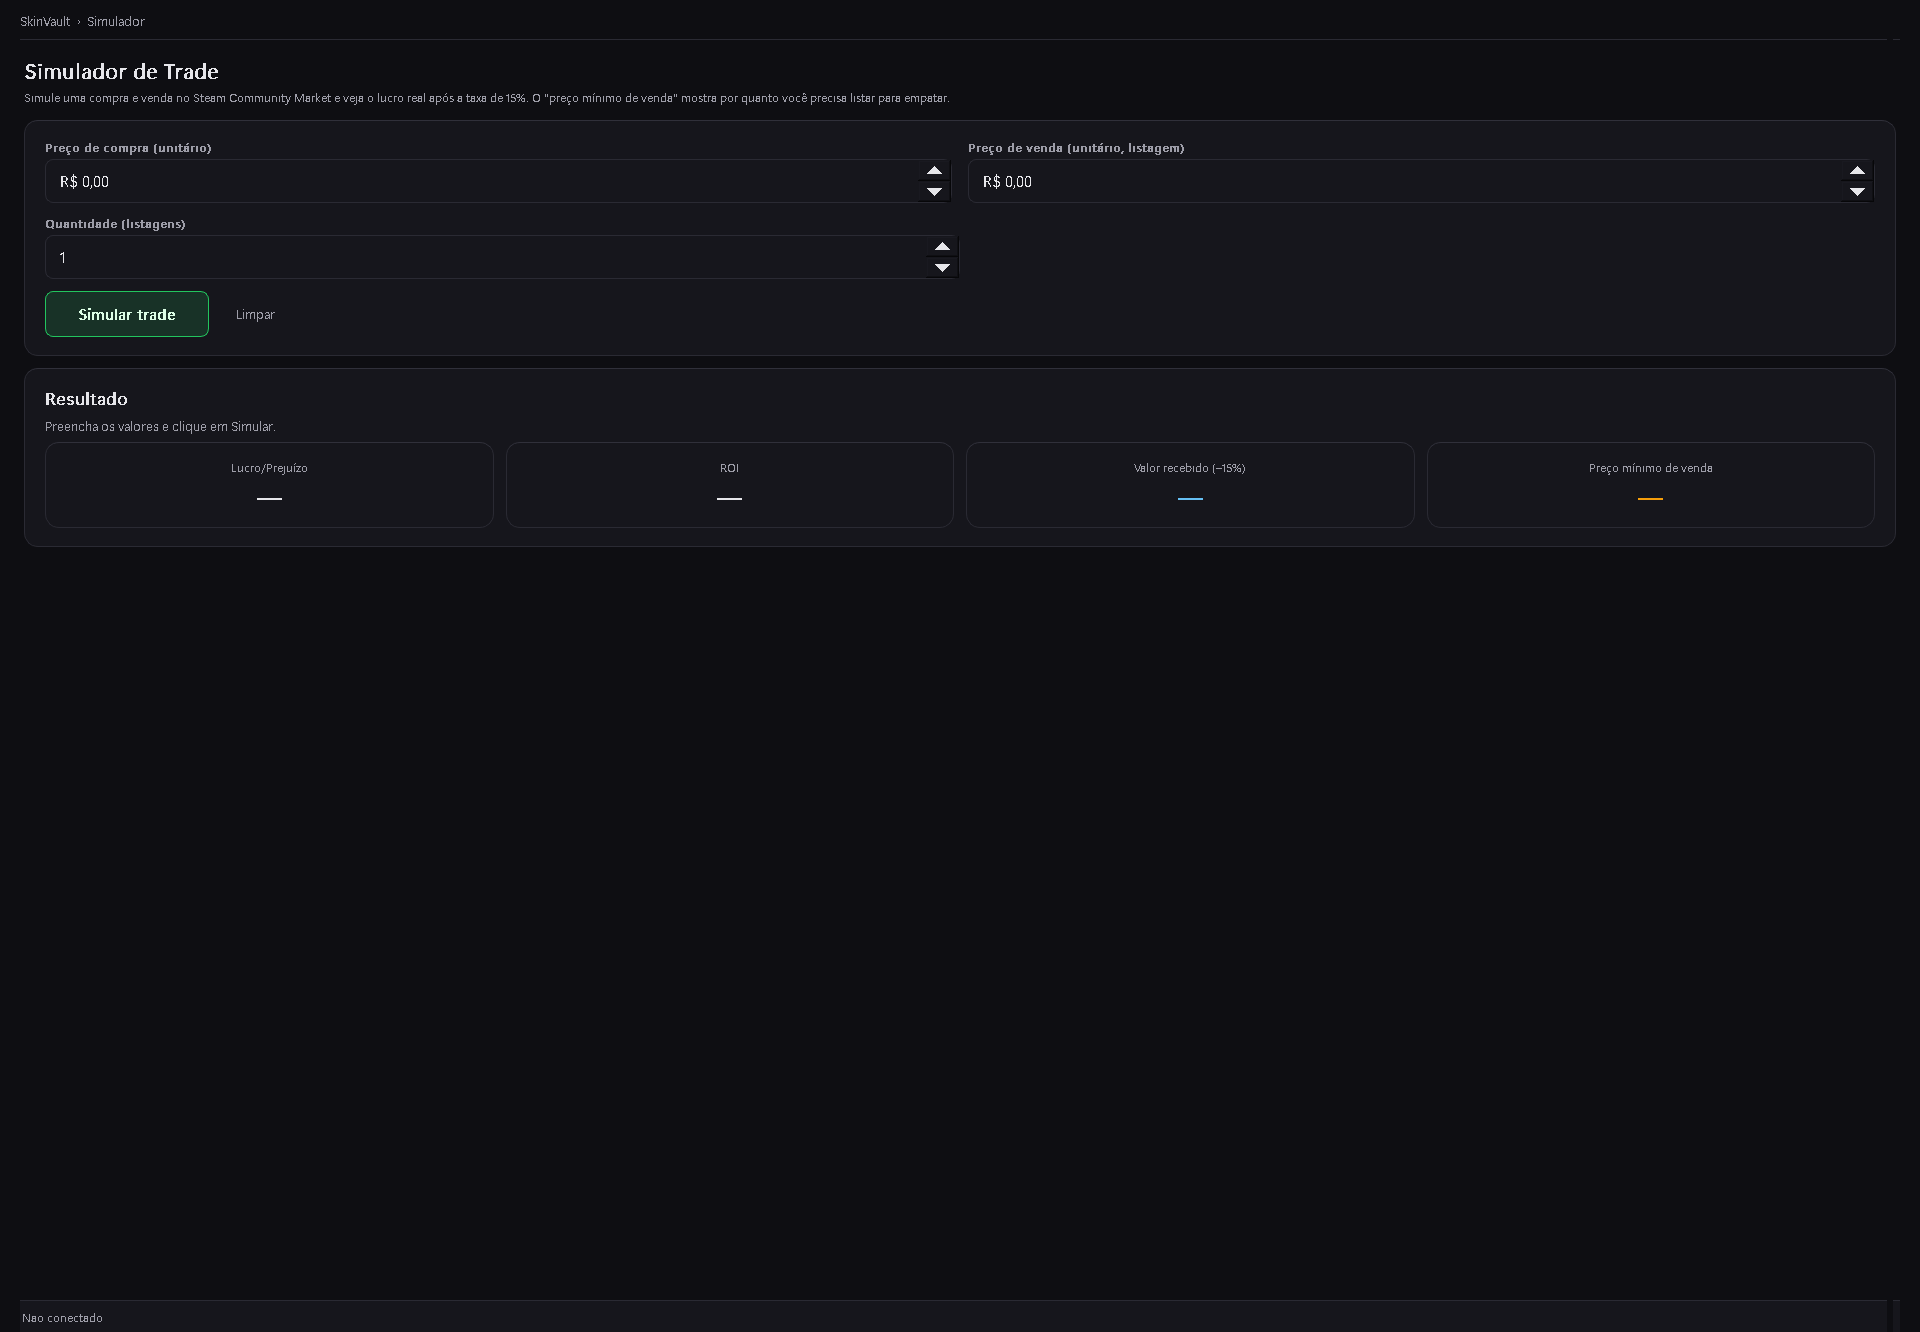
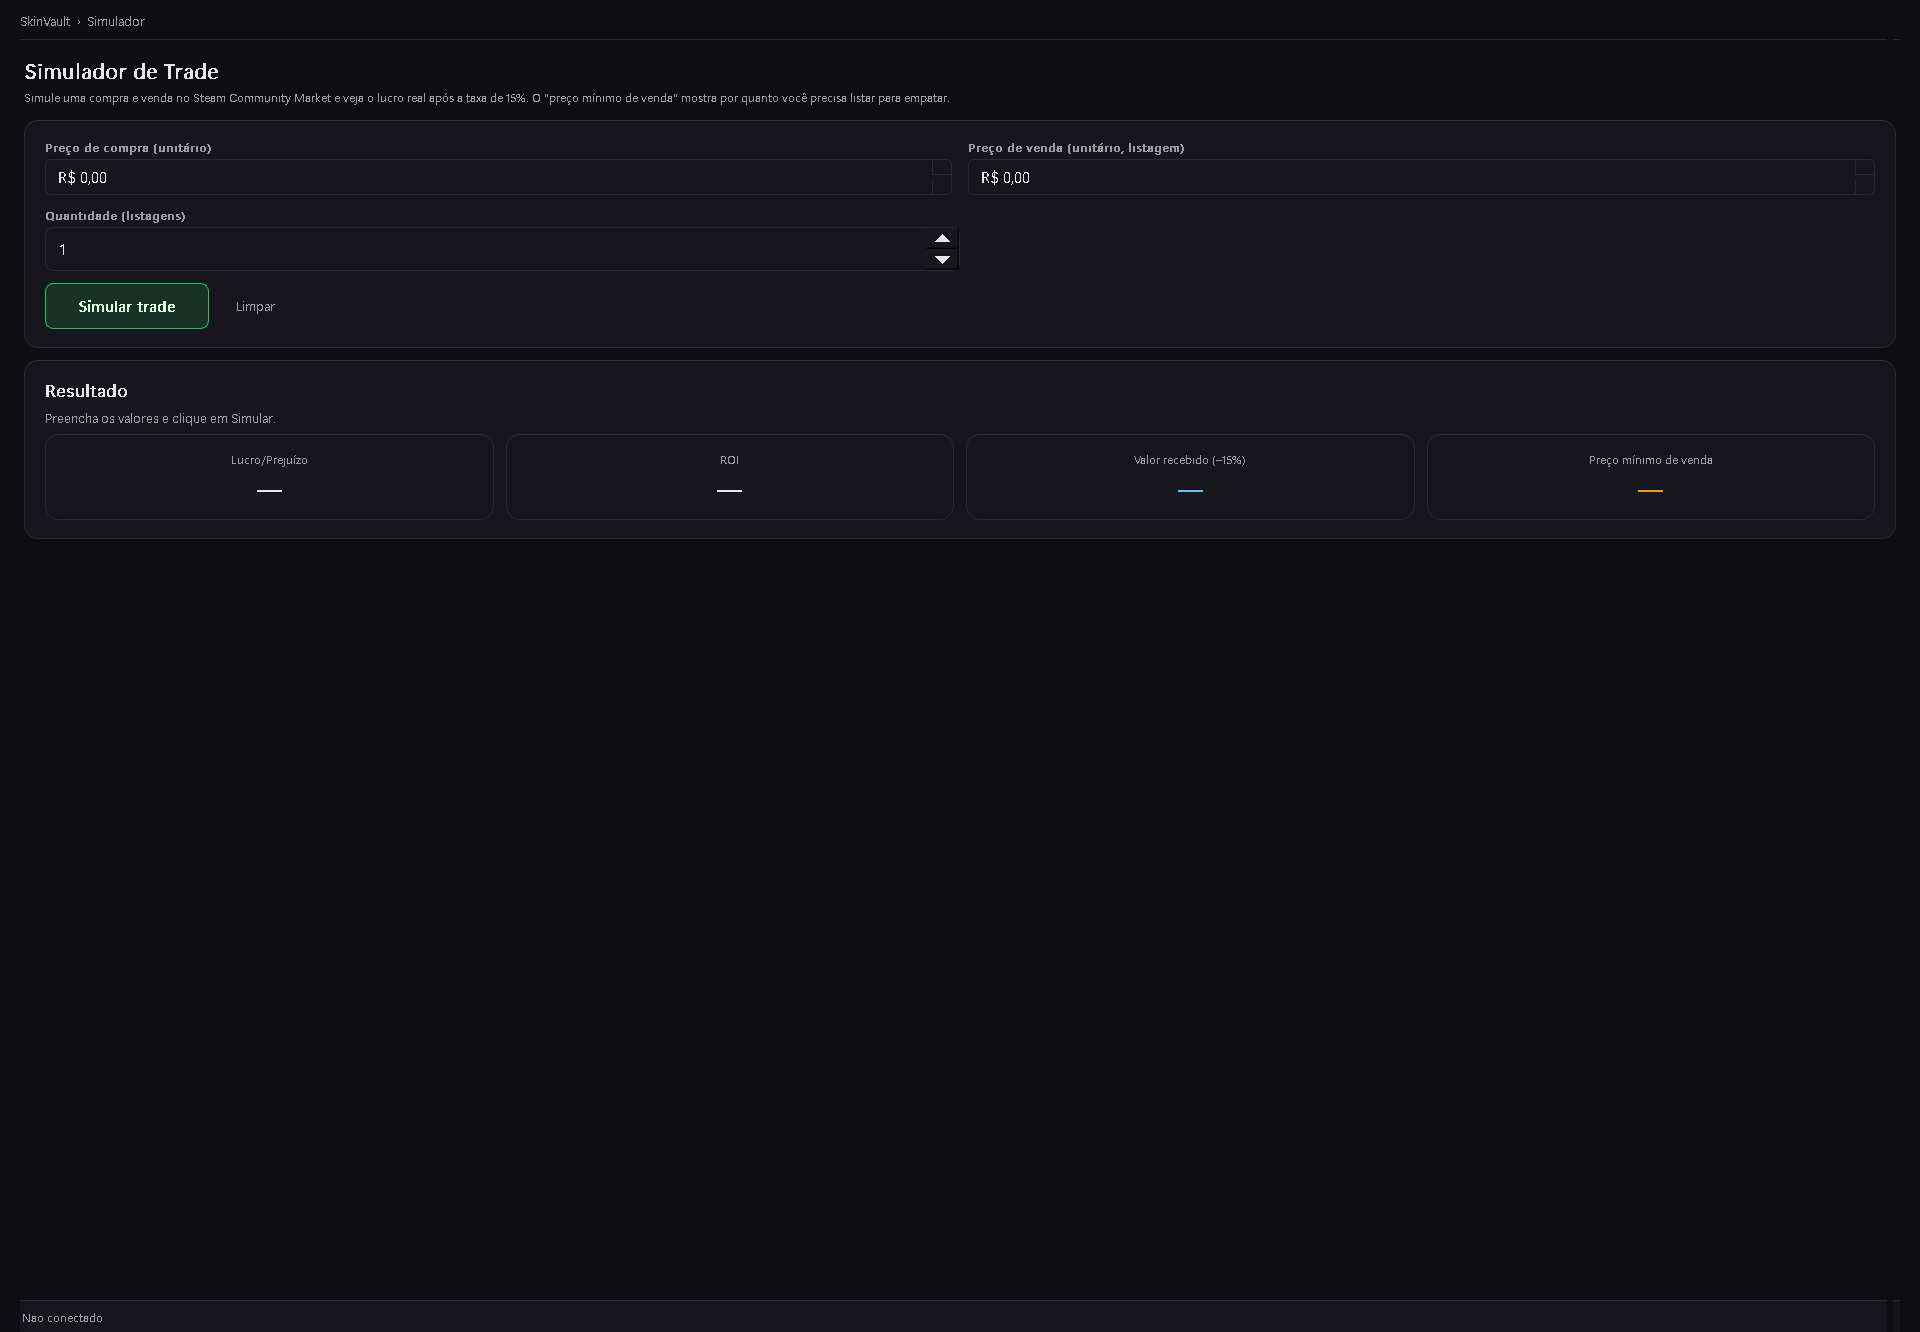
ui: estiliza spinbox/checkbox/combo-popup/scrollbar — fim do chrome Qt nativo
- spin_style() helper em theme.py: QDoubleSpinBox com up/down buttons
  18px, setas triangulares, sem chrome nativo. Aplicado nos 2 inputs
  do Simulador (trocou input_style() por spin_style()).
- checkbox_style() helper em theme.py: indicator 16x16 SURFACE+BORDER,
  checked ACCENT, focus ACCENT. Substitui style inline nos 3 QCheckBox
  (Scanner 2x + Watchlist 1x).
- QComboBox popup estilizado: QAbstractItemView BG_ELEVATED + BORDER +
  SURFACE_HOV selection + item padding 6px 12px.
- Scrollbar global fina em gui.py::_apply_stylesheet: vertical/horizontal
  10px, handle SCROLL_THUMB #2E2E38 radius 5 min 32px, sem add/sub-line.
- Tokens SCROLL_THUMB / SCROLL_THUMB_HOV em theme.py.
- Bônus: EmptyState steps container centralizado via AlignHCenter (fix
  pendente do Q hotfix — steps_w com margins 0, stretch removido,
  AlignHCenter no addWidget).
- 1316 tests verdes, screenshots regenerados.

Changed region(s): [[0.0312, 0.1231, 0.1562, 0.3694], [0.8438, 0.3386, 0.875, 0.3694], [0.5938, 0.3386, 0.625, 0.3694]]

diff --git a/skinvault/ui/theme.py b/skinvault/ui/theme.py
@@ -47,6 +47,10 @@ WARN_TEXT   = "#D8C267"
 # Hover surface (row-hover, item:hover)
 SURFACE_HOV = "#23232D"
 
+# Scrollbar (global, fina)
+SCROLL_THUMB    = "#2E2E38"
+SCROLL_THUMB_HOV = "#3A3A46"
+
 # Overlay (LockOverlay, modals semi-transparentes)
 BG_OVERLAY  = "rgba(14, 14, 18, 0.88)"
 
@@ -245,6 +249,54 @@ def btn_ghost(padding: str = "6px 14px", fs: str = FS_MUTED) -> str:
         f" border: 1px solid {BORDER}; }}"
         f"QPushButton:focus {{ color: {TEXT}; background: {SURFACE};"
         f" border: 1px solid {TEXT_MUTED}; }}"
+    )
+
+
+def spin_style() -> str:
+    """QDoubleSpinBox / QSpinBox com setas escuras (no place do chrome nativo).
+
+    Up/down buttons tem 18px de largura, separados por border-left, setas
+    via pseudo-elementos up-arrow/down-arrow (triangulo CSS).
+    """
+    return (
+        f"QDoubleSpinBox, QSpinBox"
+        f" {{ background: {SURFACE}; border: 1px solid {BORDER};"
+        f" border-radius: {RADIUS_SM}px; padding: 6px 10px;"
+        f" font-size: {FS_INPUT}; color: {TEXT};"
+        f" font-family: {FONT_FAMILY}; }}"
+        f"QDoubleSpinBox:focus, QSpinBox:focus"
+        f" {{ border: 1px solid {ACCENT}; }}"
+        f"QDoubleSpinBox::up-button, QSpinBox::up-button"
+        f" {{ width: 18px; height: 14px; border-left: 1px solid {BORDER};"
+        f" border-bottom: 1px solid {BORDER};"
+        f" subcontrol-position: top right; bi: center top; }}"
+        f"QDoubleSpinBox::down-button, QSpinBox::down-button"
+        f" {{ width: 18px; height: 14px; border-left: 1px solid {BORDER};"
+        f" subcontrol-position: bottom right; bi: center bottom; }}"
+        f"QDoubleSpinBox::up-arrow, QSpinBox::up-arrow"
+        f" {{ width: 6px; height: 4px; }}"
+        f"QDoubleSpinBox::down-arrow, QSpinBox::down-arrow"
+        f" {{ width: 6px; height: 4px; }}"
+    )
+
+
+def checkbox_style() -> str:
+    """QCheckBox com indicator escuro 16x16, checked accent verde.
+
+    Indicador unchecked: bg SURFACE, border BORDER, radius 4.
+    Indicador checked:  bg ACCENT, border ACCENT.
+    Focus: borda ACCENT (mesmo padrao Frente C).
+    """
+    return (
+        f"QCheckBox {{ color: {TEXT_MUTED}; font-size: {FS_MUTED};"
+        f" font-family: {FONT_FAMILY}; spacing: 8px; }}"
+        f"QCheckBox:focus {{ color: {TEXT}; }}"
+        f"QCheckBox::indicator {{ width: 16px; height: 16px;"
+        f" border: 1px solid {BORDER}; border-radius: 4px;"
+        f" background: {SURFACE}; }}"
+        f"QCheckBox::indicator:checked {{ background: {ACCENT};"
+        f" border-color: {ACCENT}; }}"
+        f"QCheckBox:focus::indicator {{ border: 1px solid {ACCENT}; }}"
     )
 
 

diff --git a/skinvault/ui/scanner_screen.py b/skinvault/ui/scanner_screen.py
@@ -787,6 +787,11 @@ class ScannerScreen(QWidget):
             f"QComboBox:focus {{ border: 1px solid {t.ACCENT}; }}"
             f"QComboBox:drop-down {{ border: none; }}"
             f"QComboBox:down-arrow {{ color: {t.TEXT_MUTED}; }}"
+            f"QComboBox QAbstractItemView"
+            f" {{ background: {t.BG_ELEVATED}; border: 1px solid {t.BORDER};"
+            f" selection-background-color: {t.SURFACE_HOV}; color: {t.TEXT}; }}"
+            f"QComboBox QAbstractItemView::item"
+            f" {{ padding: 6px 12px; }}"
         )
         for cat in _SCAN_BY_CATEGORY:
             self._cat_combo.addItem(cat)
@@ -868,11 +873,7 @@ class ScannerScreen(QWidget):
             "Oculta itens onde data_quality é 'low' ou 'very_low'."
             " Empiricamente esses scores são anti-preditivos (corr -0.14)."
         )
-        self._hide_low_conf_cb.setStyleSheet(
-            f"QCheckBox {{ color: {t.TEXT_MUTED}; font-size: {t.FS_MUTED};"
-            f" font-family: {t.FONT_FAMILY}; }}"
-            f"QCheckBox:focus {{ color: {t.TEXT}; }}"
-        )
+        self._hide_low_conf_cb.setStyleSheet(t.checkbox_style())
         self._hide_low_conf_cb.toggled.connect(self._on_hide_low_conf_toggle)
         filt_row.addWidget(self._hide_low_conf_cb)
 
@@ -885,11 +886,7 @@ class ScannerScreen(QWidget):
             " skin (aproximação). A Steam não expõe o item_nameid"
             " necessário para o book exato deste wear."
         )
-        self._hide_approx_cb.setStyleSheet(
-            f"QCheckBox {{ color: {t.TEXT_MUTED}; font-size: {t.FS_MUTED};"
-            f" font-family: {t.FONT_FAMILY}; }}"
-            f"QCheckBox:focus {{ color: {t.TEXT}; }}"
-        )
+        self._hide_approx_cb.setStyleSheet(t.checkbox_style())
         self._hide_approx_cb.toggled.connect(self._on_hide_approx_toggle)
         filt_row.addWidget(self._hide_approx_cb)
         filt_row.addStretch(1)

diff --git a/skinvault/gui.py b/skinvault/gui.py
@@ -629,10 +629,29 @@ class MainWindow(QMainWindow):
             self._dark_titlebar_set = True
 
     def _apply_stylesheet(self) -> None:
+        from skinvault.ui.theme import (
+            BG, BG_ELEVATED, BORDER, TEXT, TEXT_MUTED,
+            FONT_FAMILY, SCROLL_THUMB, SCROLL_THUMB_HOV,
+        )
         self.setStyleSheet(
-            f"QMainWindow {{ background: {_BG}; }}"
-            f"* {{ color: {_TEXT};"
-            f" font-family: 'Segoe UI Variable Display', 'Segoe UI', system-ui; }}"
+            f"QMainWindow {{ background: {BG}; }}"
+            f"* {{ color: {TEXT};"
+            f" font-family: '{FONT_FAMILY}', 'Segoe UI', system-ui; }}"
+            # ── Scrollbar global fina ──
+            f"QScrollBar:vertical {{ width: 10px;"
+            f" background: transparent; margin: 0; }}"
+            f"QScrollBar::handle:vertical {{ background: {SCROLL_THUMB};"
+            f" border-radius: 5px; min-height: 32px; }}"
+            f"QScrollBar::handle:vertical:hover {{ background: {SCROLL_THUMB_HOV}; }}"
+            f"QScrollBar::add-line:vertical, QScrollBar::sub-line:vertical"
+            f" {{ height: 0; }}"
+            f"QScrollBar:horizontal {{ height: 10px;"
+            f" background: transparent; margin: 0; }}"
+            f"QScrollBar::handle:horizontal {{ background: {SCROLL_THUMB};"
+            f" border-radius: 5px; min-width: 32px; }}"
+            f"QScrollBar::handle:horizontal:hover {{ background: {SCROLL_THUMB_HOV}; }}"
+            f"QScrollBar::add-line:horizontal, QScrollBar::sub-line:horizontal"
+            f" {{ width: 0; }}"
         )
 
     def _apply_overlay_flags(self, enable: bool) -> None:

diff --git a/skinvault/ui/simulador_screen.py b/skinvault/ui/simulador_screen.py
@@ -79,14 +79,14 @@ class SimuladorScreen(QWidget):
         row1.setSpacing(16)
         self._buy_inp.setPrefix("R$ ")
         self._buy_inp.setRange(0, 9999999)
-        self._buy_inp.setStyleSheet(t.input_style())
+        self._buy_inp.setStyleSheet(t.spin_style())
         row1.addWidget(FormRow(
             "Preço de compra (unitário)", self._buy_inp,
             tooltip="Quanto você paga por cada unidade ao comprar.",
         ))
         self._sell_inp.setPrefix("R$ ")
         self._sell_inp.setRange(0, 9999999)
-        self._sell_inp.setStyleSheet(t.input_style())
+        self._sell_inp.setStyleSheet(t.spin_style())
         row1.addWidget(FormRow(
             "Preço de venda (unitário, listagem)", self._sell_inp,
             tooltip="Preço pelo qual você lista cada unidade.\nA Steam cobra "

diff --git a/skinvault/ui/components.py b/skinvault/ui/components.py
@@ -106,7 +106,7 @@ class EmptyState(QWidget):
             steps_w = QWidget()
             steps_lay = QVBoxLayout(steps_w)
             steps_lay.setSpacing(8)
-            steps_lay.setContentsMargins(40, 0, 40, 0)
+            steps_lay.setContentsMargins(0, 0, 0, 0)
             for i, step in enumerate(steps, 1):
                 row = QHBoxLayout()
                 row.setSpacing(10)
@@ -124,8 +124,7 @@ class EmptyState(QWidget):
                 txt.setStyleSheet(t.label_body_muted())
                 row.addWidget(txt, 1)
                 steps_lay.addLayout(row)
-            steps_lay.addStretch(1)
-            lay.addWidget(steps_w)
+            lay.addWidget(steps_w, 0, Qt.AlignmentFlag.AlignHCenter)
 
         if cta_label:
             cta = QPushButton(cta_label)

diff --git a/skinvault/ui/watchlist_screen.py b/skinvault/ui/watchlist_screen.py
@@ -274,11 +274,7 @@ class WatchlistScreen(QWidget):
             "Oculta itens onde a confianca dos dados e 'low' ou 'very_low'."
             " Disponivel apenas apos 'Validar Score'."
         )
-        self._hide_low_conf_cb.setStyleSheet(
-            f"QCheckBox {{ color: {t.TEXT_MUTED}; font-size: {t.FS_MUTED};"
-            f" font-family: {t.FONT_FAMILY}; }}"
-            f"QCheckBox:focus {{ color: {t.TEXT}; }}"
-        )
+        self._hide_low_conf_cb.setStyleSheet(t.checkbox_style())
         self._hide_low_conf_cb.toggled.connect(self._on_hide_low_conf_toggle)
         filt_row.addWidget(self._hide_low_conf_cb)
         filt_row.addStretch(1)

diff --git a/ROADMAP_UI.md b/ROADMAP_UI.md
@@ -398,7 +398,7 @@ Ajuda futuro agente / contribuidor a entender o design system rapidamente.
 >
  > **Ordem**: M primeiro e sozinha (invalida screenshots anteriores — todas as outras frentes validam visual contra o baseline pós-M). Depois N/O/P/Q/R/S em paralelo. T e U dependem de N. V por último.
  >
- > Concluídas: ✅**M**, ✅**N**, ✅**O**, ✅**P**, ✅**Q**, ✅**U**. Próximas: R, S, T, V.
+ > Concluídas: ✅**M**, ✅**N**, ✅**O**, ✅**P**, ✅**Q**, ✅**U**, ✅**R**. Próximas: S, T, V.
 
  ~~### Frente M — Matar a propagação de QSS global: as "tarjas" atrás de todo label (esforço: 1-2h, impact: ALTÍSSIMO) [deps: nenhuma — RODAR PRIMEIRO]~~ ✅
 
@@ -503,7 +503,7 @@ Ajuda futuro agente / contribuidor a entender o design system rapidamente.
 
 **Resultado**: EmptyState ganhou param `steps` (círculo 20px ACCENT_DIM + número + `label_body_muted`), aplicado em Scanner, Trades e Watchlist com onboarding de 3 passos cada. Market: chart cards trocaram stretch por `setFixedHeight(300)`, liberando espaço pro card "Detalhes do item". Market EmptyState ganhou CTA "Tentar novamente" conectado a `_on_search`. Consistência revisada: todos os 6 EmptyStates usam glifo geométrico, título curto e CTA onde há ação óbvia (Account sync, Watchlist add, Trades add, Market retry; Scanner e History sem CTA porque a ação primária está no PageHeader/toolbar). Extra: P&L líquido em trades_screen.py mostra `t.TEXT` (neutro) quando não há trades no filtro (antes ACCENT verde para R$ 0,00). 1313 tests verdes. Screenshots regenerados.
 
-### Frente R — Despir o Qt cru: spinbox, checkbox, combo popup, scrollbar (esforço: 2-3h, impact: médio-alto) [deps: M]
+### Frente R — Despir o Qt cru: spinbox, checkbox, combo popup, scrollbar (esforço: 2-3h, impact: médio-alto) [deps: M] ✅
 
 **Problema**: 4 controles ainda com chrome nativo claro no dark theme: QDoubleSpinBox do Simulador (setas nativas, print 06); QCheckBox indicator branco (Scanner/Watchlist, prints 03/07); popup do QComboBox do Scanner (QAbstractItemView nativo); QScrollBar nativo (History/Activity feed).
 
@@ -518,6 +518,8 @@ Ajuda futuro agente / contribuidor a entender o design system rapidamente.
 **Aceite**: varredura visual dos prints novos sem nenhum chrome nativo claro; helpers listados no §0; smoke test de instanciação por helper.
 
 **Validação**: §4.3. Commit: `ui: estiliza spinbox/checkbox/combo-popup/scrollbar — fim do chrome Qt nativo`.
+
+**Resultado**: (1) `spin_style()` criado em theme.py com up/down buttons 18px e setas triangulares; aplicado nos 2 QDoubleSpinBox do Simulador (trocou `t.input_style()` por `t.spin_style()` — o `input_style()` incluía QDoubleSpinBox mas não estilizava os botões). Alternativa QLineEdit+validator descartada — spinbox agrega step por teclado/seta e prefix "R$". (2) `checkbox_style()` criado: indicator 16x16 SURFACE+BORDER, checked ACCENT, focus ACCENT. Aplicado nos 3 QCheckBox (Scanner 2x + Watchlist 1x), substituindo o style inline que só mexia na label. (3) Popup do QComboBox estilizado com `QAbstractItemView` BG_ELEVATED + SURFACE_HOV selection + item padding. (4) Scrollbar global adicionado ao `_apply_stylesheet` em gui.py: vertical/horizontal 10px, handle SCROLL_THUMB 5px radius min 32px, sem add/sub-line. Tokens `SCROLL_THUMB`/`SCROLL_THUMB_HOV` adicionados em theme.py. Bônus: EmptyState steps container centralizado via AlignHCenter (fix do Q hotfix que estava pendente). 1316 tests verdes. Screenshots regenerados.
 
 ### Frente S — Sidebar: ícones de linha QPainter + sessão no rodapé (esforço: 3-4h, impact: alto — assinatura visual) [deps: M]
 
